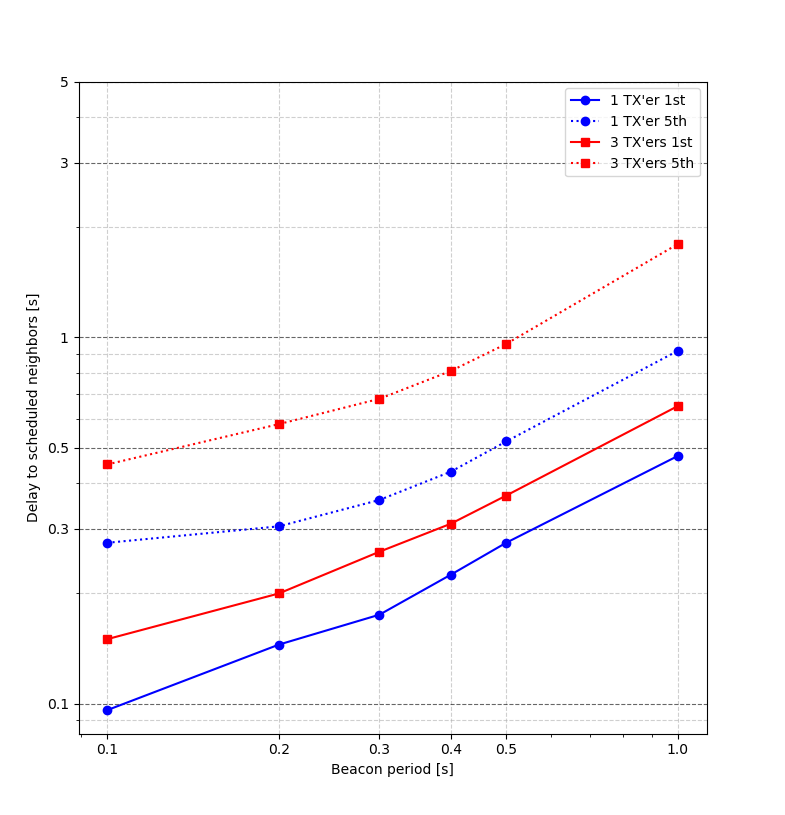
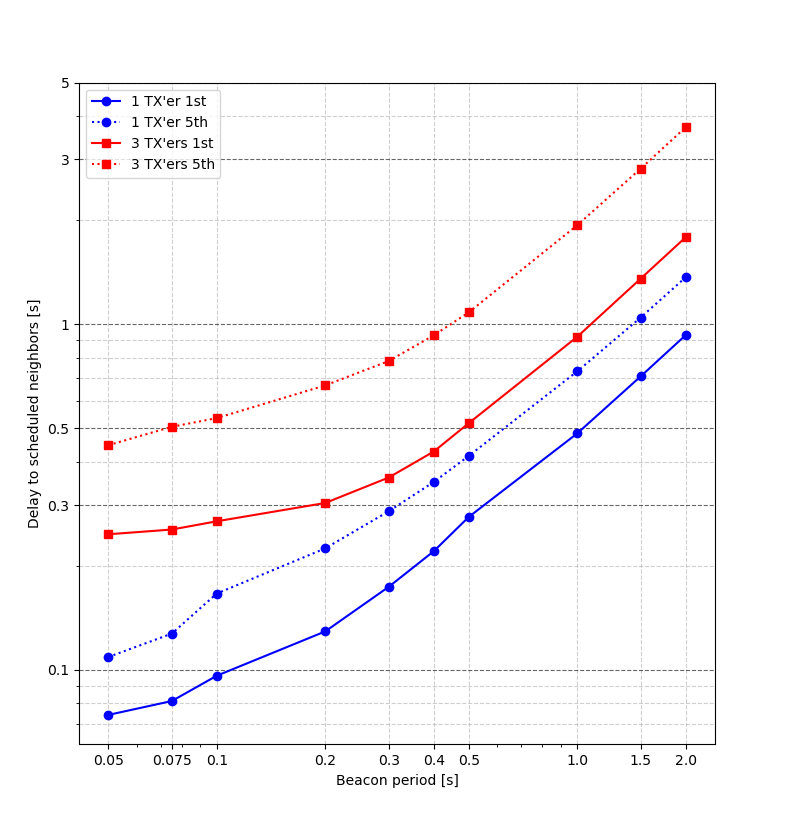
Created better beaconP_vs_delay images

diff --git a/beaconP_vs_delay.py b/beaconP_vs_delay.py
@@ -1,21 +1,113 @@
 import matplotlib.pyplot as plt
+import pandas as pd
+import numpy as np
 
-# TODO get those values from real data instead of graphs
-beaconP = [0.1, 0.2, 0.3, 0.4, 0.5, 1.0]
-tx1_1 = [0.096, 0.145, 0.175, 0.225, 0.275, 0.475]
-tx3_1 = [0.15, 0.2, 0.26, 0.31, 0.37, 0.65]
-tx1_5 = [0.275, 0.305, 0.36, 0.43, 0.52, 0.92]
-tx3_5 = [0.45, 0.58, 0.68, 0.81, 0.96, 1.80]
+beaconP = ['0.05', '0.075', '0.1', '0.2', '0.3', '0.4', '0.5', '1.0', '1.5', '2.0']
+beaconPf = []
+
+tx1_1 = []
+tx3_1 = []
+tx1_5 = []
+tx3_5 = []
+
+for bp in beaconP:
+    beaconPf += [float(bp)]
+    print(bp)
+
+    # open res.csv
+    results = pd.read_csv("results/beaconp_%s/res.csv"%(bp))
+    scalars = results[results.type=='scalar']
+
+    delays = {}
+    for row in scalars.itertuples():
+        # Get module
+        module = row.module.split('.')[1]
+        # Get run nr
+        run = int(row.run.split('-')[1])
+        # Get txCount
+        txCount = int(row.name.split('_')[1])
+        # Get delay number
+        delnumber = int(row.name.split('_')[3])
+        # Get value
+        delay = row.value
+        if module not in delays:
+            delays[module] = {}
+        if (txCount, delnumber) not in delays[module]:
+            delays[module][(txCount, delnumber)] = []
+        delays[module][(txCount, delnumber)] += [delay]
+
+    # Take mean of runs
+    newdelays = {}
+    stddevs = {}
+    for ki,vi in delays.items():
+        newvi = {}
+        newsdev = {}
+        for kj, vj in vi.items():
+            newvi[kj] = np.mean(vj)
+            newsdev[kj] = np.std(vj)
+        newdelays[ki] = newvi
+        stddevs[ki] = newsdev
+    delays = newdelays
+
+    # Take mean between txers
+    newdelays = {}
+    newstddevs = {}
+    divnr = len(delays)
+    for ki, vi in delays.items():
+        for kj, vj in vi.items():
+            if kj not in newdelays:
+                newdelays[kj] = vj/divnr
+                newstddevs[kj] = stddevs[ki][kj]/divnr
+            else:
+                newdelays[kj] += vj/divnr
+                newstddevs[kj] += stddevs[ki][kj]/divnr
+    delays = newdelays
+    stddevs = newstddevs
+
+    # Create lines
+    lines_x = {}
+    lines_y = {}
+    lines_std = {}
+    for k,v in delays.items():
+        txCount = k[0]
+        delnumber = k[1]
+        if delnumber not in lines_x:
+            lines_x[delnumber] = []
+            lines_y[delnumber] = []
+            lines_std[delnumber] = []
+        lines_x[delnumber] += [txCount/7.0 * 100.0]
+        lines_y[delnumber] += [v]
+        lines_std[delnumber] += [stddevs[k]]
+
+    print(lines_y)
+
+    # Add to tx<x>_<x>
+    tx1_1 += [lines_y[0][0]]
+    tx3_1 += [lines_y[4][0]]
+    tx1_5 += [lines_y[0][3]]
+    tx3_5 += [lines_y[4][3]]
+    print(tx1_1)
+    print(tx3_1)
+    print(tx1_5)
+    print(tx3_5)
+
+
+# # TODO get those values from real data instead of graphs
+# beaconP = [0.1, 0.2, 0.3, 0.4, 0.5, 1.0]
+# tx1_1 = [0.096, 0.145, 0.175, 0.225, 0.275, 0.475]
+# tx3_1 = [0.15, 0.2, 0.26, 0.31, 0.37, 0.65]
+# tx1_5 = [0.275, 0.305, 0.36, 0.43, 0.52, 0.92]
+# tx3_5 = [0.45, 0.58, 0.68, 0.81, 0.96, 1.80]
 
 fig = plt.figure()
 ax = fig.add_axes([0.1, 0.1, 0.8, 0.8])
 ax.set_yscale('log')
-# ax.set_xscale('log')
+#ax.set_xscale('log')
 
-ax.plot(beaconP, tx1_1, 'bo-', label='1 TX\'er 1st')
-ax.plot(beaconP, tx1_5, 'bo:', label='1 TX\'er 5th')
-ax.plot(beaconP, tx3_1, 'rs-', label='3 TX\'ers 1st')
-ax.plot(beaconP, tx3_5, 'rs:', label='3 TX\'ers 5th')
+ax.plot(beaconPf, tx1_1, 'bo-', label='1 TX\'er 1st')
+ax.plot(beaconPf, tx1_5, 'bo:', label='1 TX\'er 5th')
+ax.plot(beaconPf, tx3_1, 'rs-', label='3 TX\'ers 1st')
+ax.plot(beaconPf, tx3_5, 'rs:', label='3 TX\'ers 5th')
 
 ax.legend()
 ax.set_xlabel('Beacon period [s]')
@@ -24,8 +116,8 @@ ax.set_ylabel('Delay to scheduled neighbors [s]');
 ax.set_yticks([0.1, 0.3, 0.5, 1.0, 3.0, 5.0])
 ax.set_yticklabels(['0.1', '0.3', '0.5', '1', '3', '5'])
 
-ax.set_xticks([0.1, 0.2, 0.3, 0.4, 0.5, 1.0])
-ax.set_xticklabels(['0.1', '0.2', '0.3', '0.4', '0.5', '1.0'])
+ax.set_xticks(beaconPf)
+ax.set_xticklabels(beaconP)
 
 ax.grid(True, 'major', 'y', alpha=0.6, ls='--', color='black')
 ax.grid(True, 'minor', 'y', alpha=0.6, ls='--')
